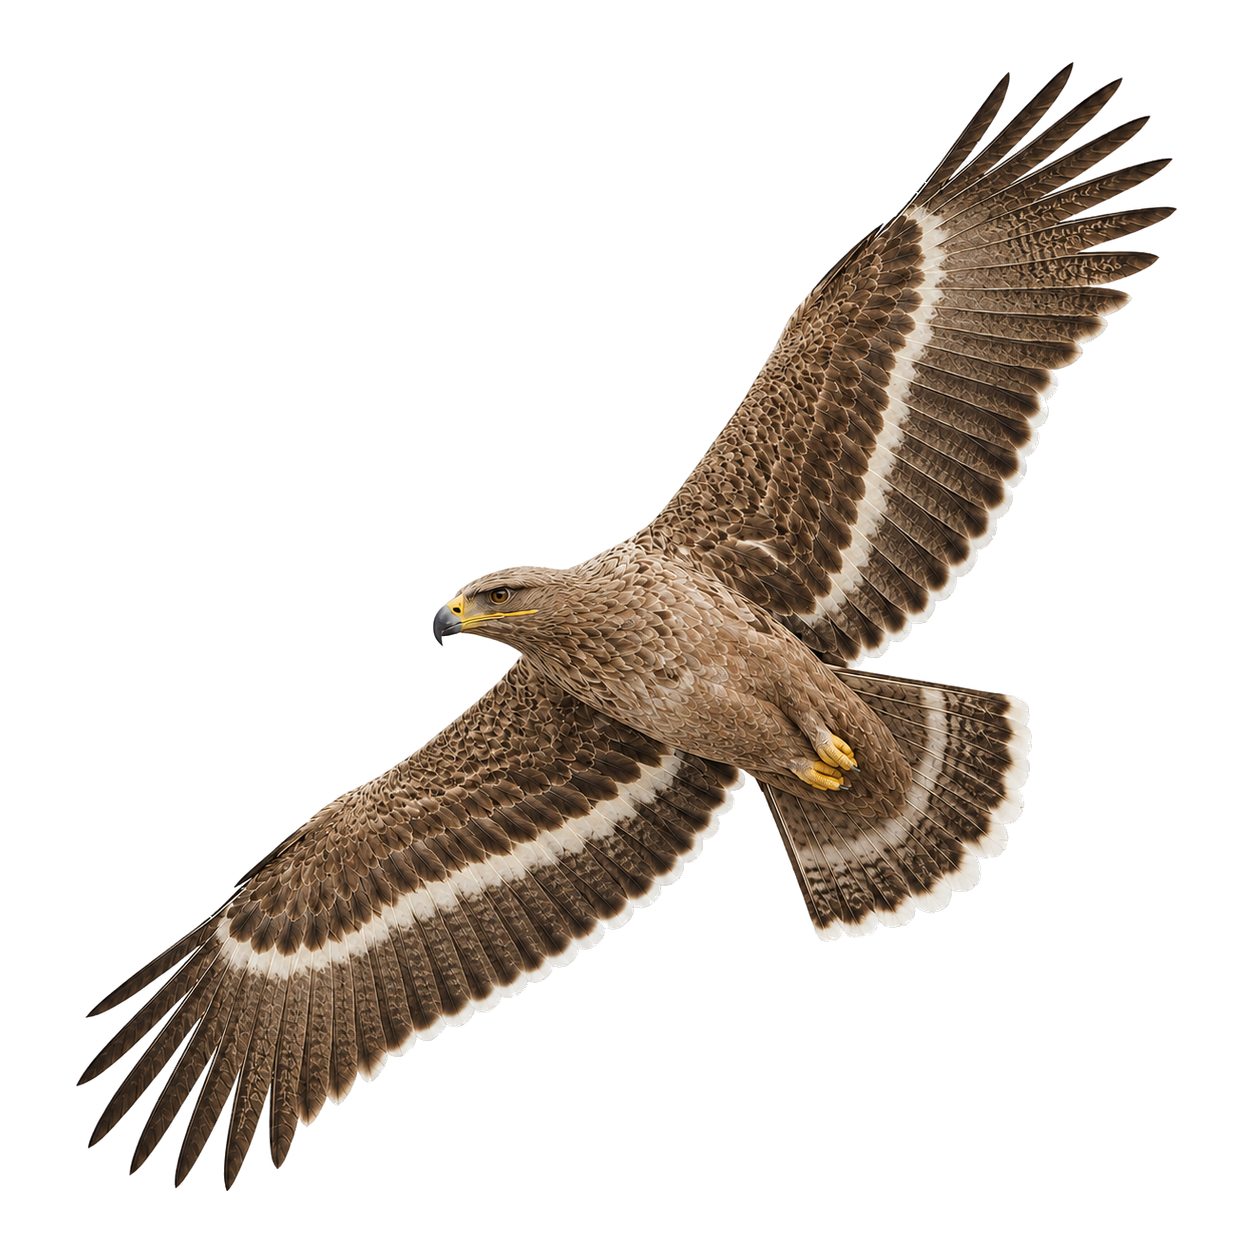
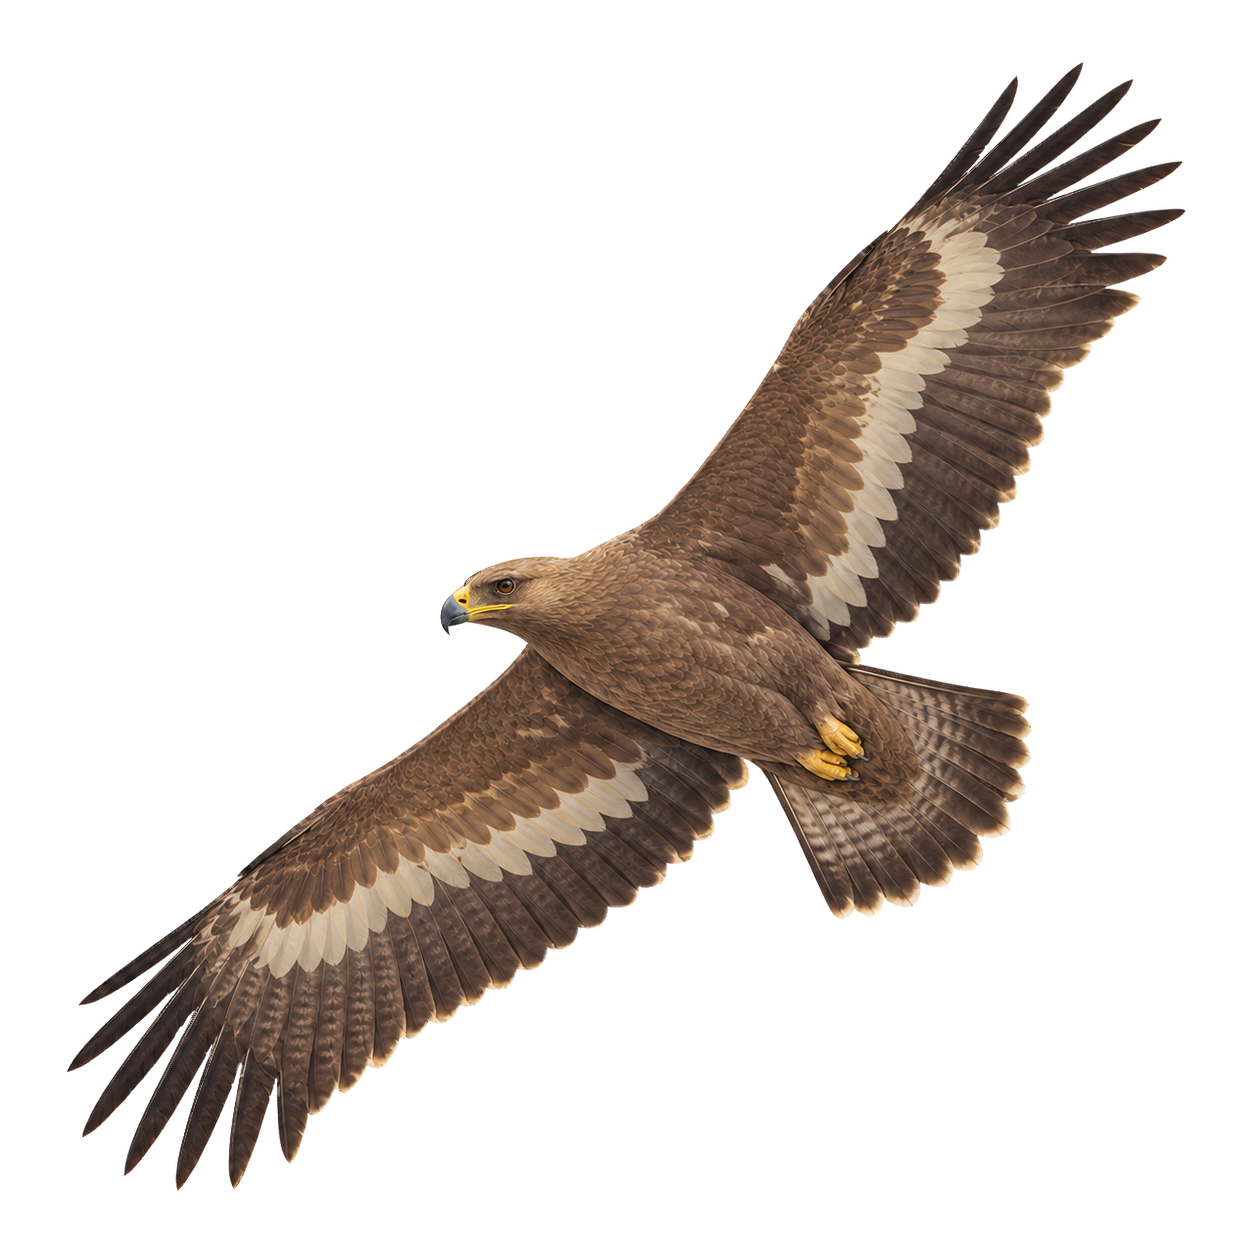
Refine juvenile steppe eagle plumage and preserve adult silhouette

Changed region(s): [[0.0622, 0.0311, 0.933, 0.933]]

diff --git a/lib/bird-images.ts b/lib/bird-images.ts
@@ -82,7 +82,7 @@ export const birdImages: Record<string, string> = {
   kaiseradler: '/birds/kaiseradler.png?v=6b9eefe91567',
   'juvenile-kaiseradler': '/birds/juvenile-kaiseradler.png?v=610fa7f70d16',
   steppenadler: '/birds/steppenadler.png?v=b8a3b719e163',
-  'juvenile-steppenadler': '/birds/juvenile-steppenadler.png?v=17c8178cc025',
+  'juvenile-steppenadler': '/birds/juvenile-steppenadler.png?v=38f355728e82',
   sekretaer: '/birds/sekretaer-20260907.png',
   andenkondor: '/birds/andenkondor-male-20260907-v3.png',
   'female-andenkondor': '/birds/andenkondor-female-20260907-v3.png',
